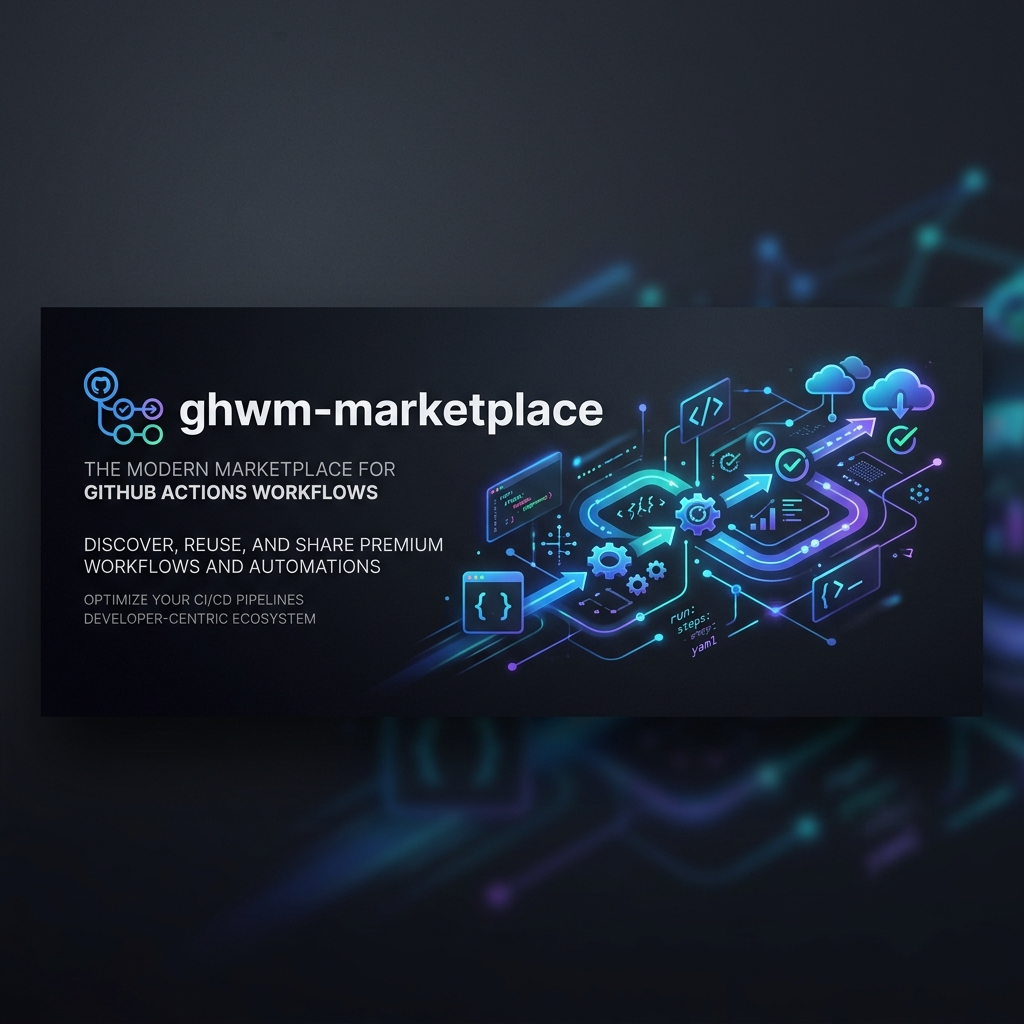
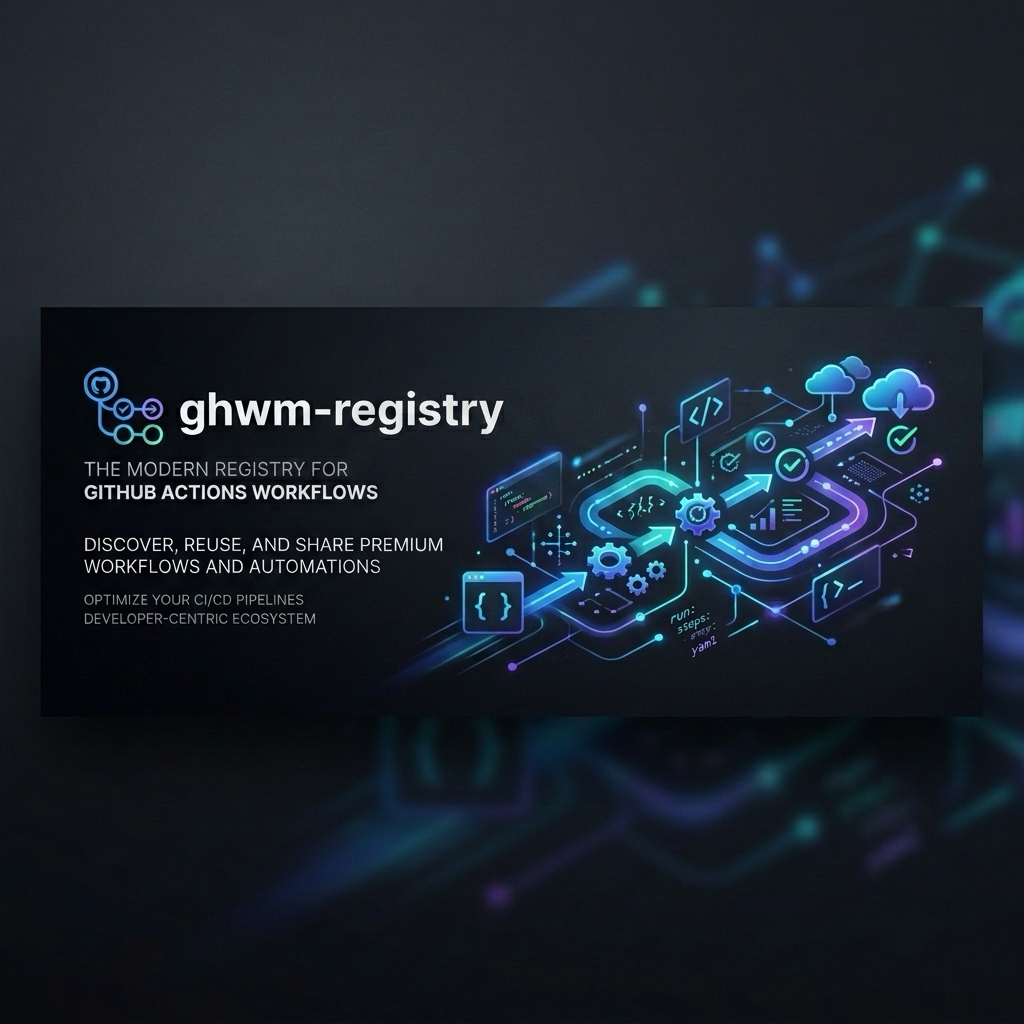
refactor: migrate npm scope and repository references from pljanicki to ghwfxlab

Changed region(s): [[0.2188, 0.375, 0.5938, 0.4688], [0.0938, 0.375, 0.1562, 0.4375], [0.5, 0.4688, 0.5312, 0.5]]

diff --git a/scripts/test_workflow_package_versions.py b/scripts/test_workflow_package_versions.py
@@ -20,7 +20,7 @@ sys.modules[MODULE_SPEC.name] = workflow_package_versions
 MODULE_SPEC.loader.exec_module(workflow_package_versions)
 
 WORKFLOW_NAME = "super-linter"
-WORKFLOW_PACKAGE_NAME = "@pljanicki/ghwm-super-linter"
+WORKFLOW_PACKAGE_NAME = "@ghwfxlab/ghwm-super-linter"
 WORKFLOW_DIR_RELATIVE = Path("workflows") / WORKFLOW_NAME
 WORKFLOW_FILE_NAME = f"{WORKFLOW_NAME}.yml"
 WORKFLOW_FILE_RELATIVE = WORKFLOW_DIR_RELATIVE / WORKFLOW_FILE_NAME

diff --git a/workflows/auto-assign-pr/README.md b/workflows/auto-assign-pr/README.md
@@ -4,7 +4,7 @@ The `auto-assign-pr` workflow automatically adds pull request reviewers and assi
 
 ## Source of Truth
 
-- Marketplace repository: [pljanicki/ghwm-marketplace](https://github.com/pljanicki/ghwm-marketplace)
+- Registry repository: [ghwfxlab/ghwm-registry](https://github.com/ghwfxlab/ghwm-registry)
 - Workflow source: [`workflows/auto-assign-pr/auto-assign-pr.yaml`](./auto-assign-pr.yaml)
 - Example config: [`workflows/auto-assign-pr/config/auto_assign.yaml`](./config/auto_assign.yaml)
 
@@ -41,7 +41,7 @@ These are the permissions declared by the installed workflow:
 Add to `ghwm.yml` in your repository root:
 
 ```yaml
-source: pljanicki/ghwm-marketplace
+source: ghwfxlab/ghwm-registry
 workflows:
   - name: auto-assign-pr
     version: 1.0.0
